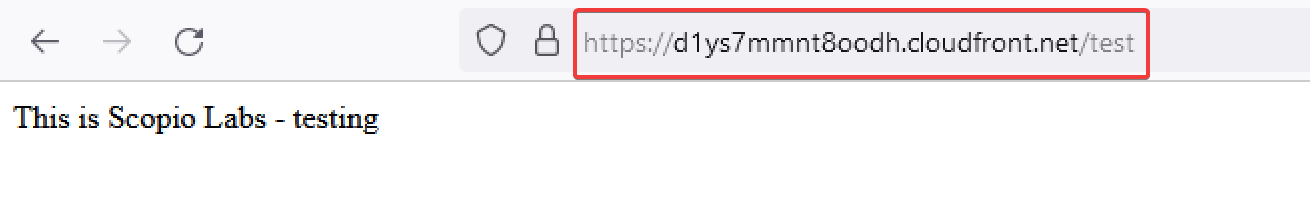
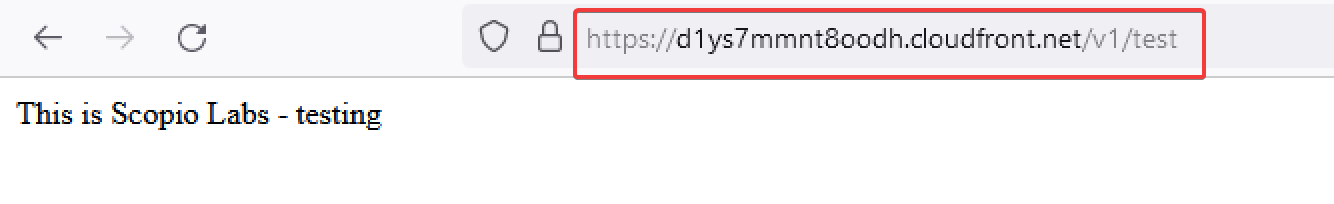
update readme files

diff --git a/Task1/README.md b/Task1/README.md
@@ -113,10 +113,18 @@ Cloudfront behavior definition direct each request the the correct origan: /inde
 
 The images below provides a snapshot of the different requests.
 
+
+
+[index request](https://d1ys7mmnt8oodh.cloudfront.net/index.html)
+
 ![/index.html](index_file.png)
+
+[test request](https://d1ys7mmnt8oodh.cloudfront.net/v1/test)
 
 ![api /v1/test](api-test.png)
 
-![api /v1/health](api-test.png)
+[health request](https://d1ys7mmnt8oodh.cloudfront.net/v1/health)
+
+![api /v1/health](api-health.png)
 
 
